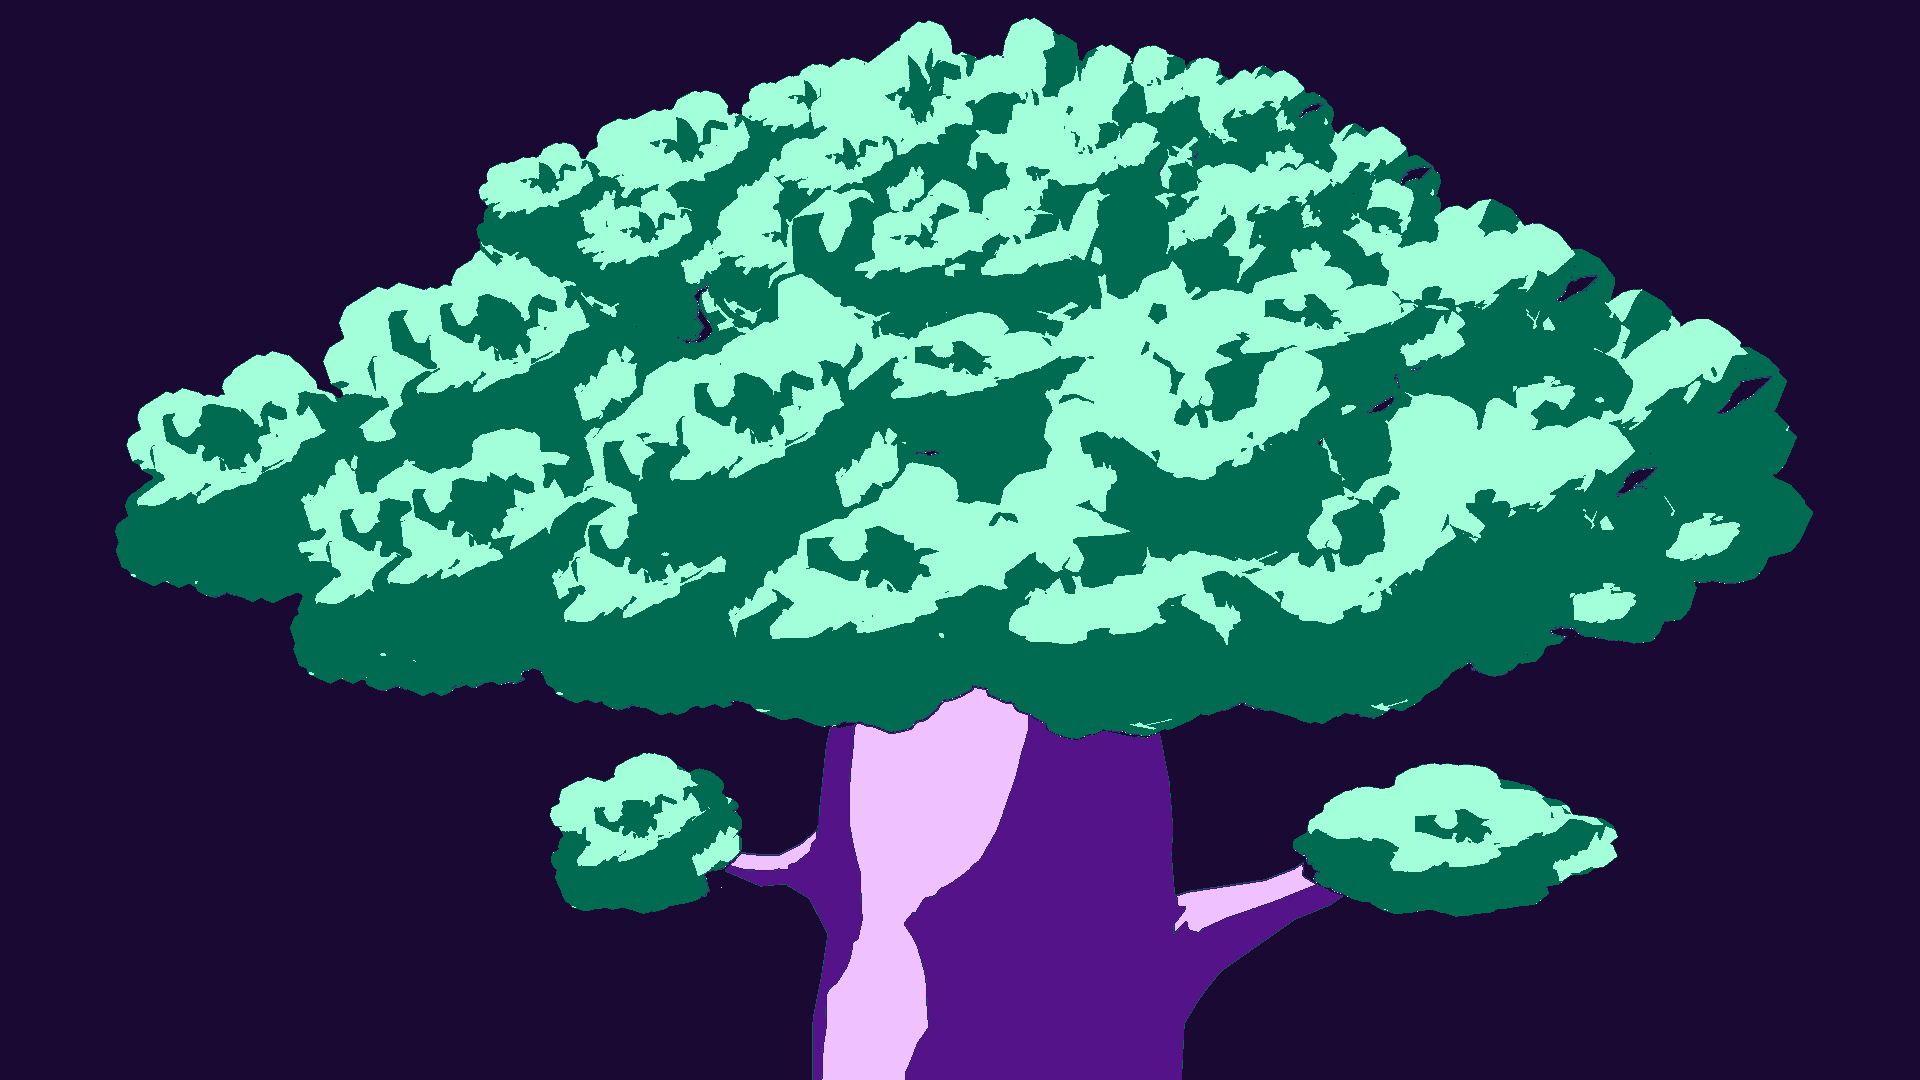
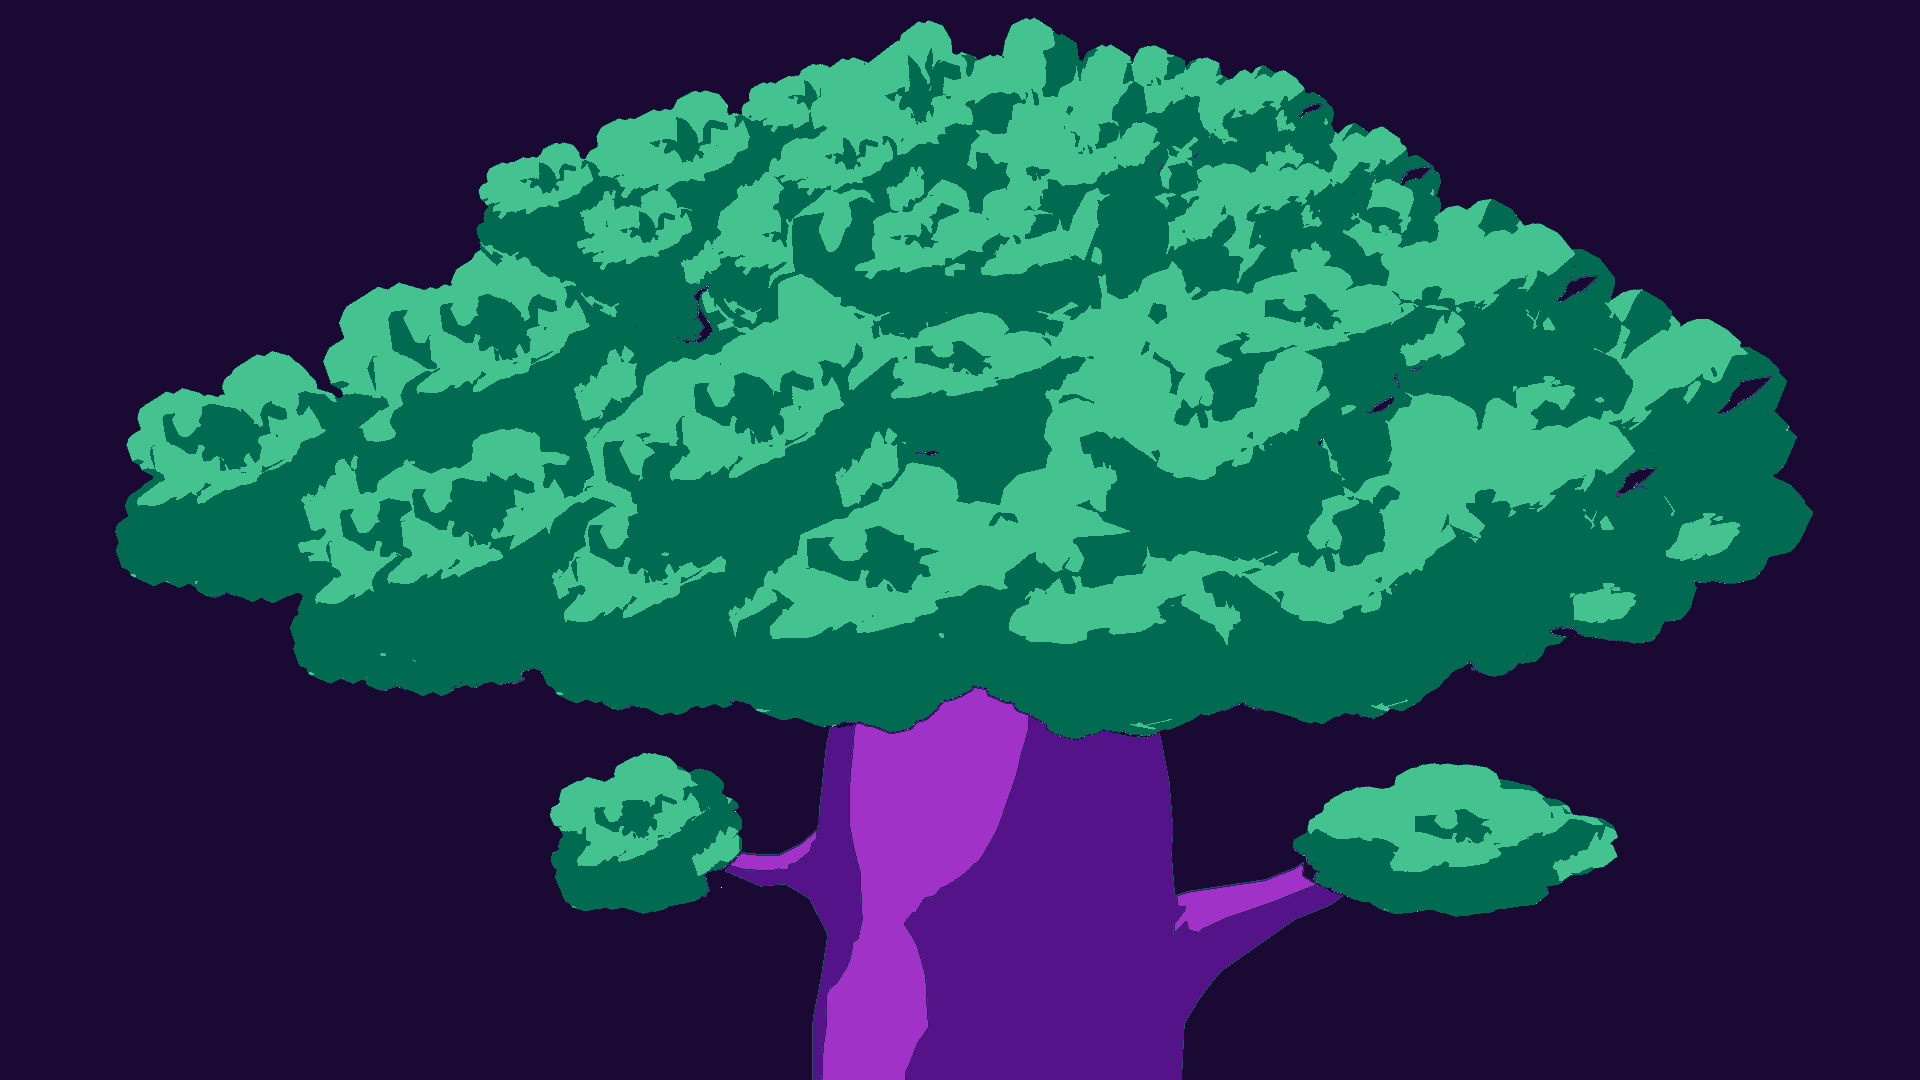
upd matin

diff --git a/assets/css/dark-style.css b/assets/css/dark-style.css
@@ -424,8 +424,8 @@ interets {
 }
 
 .grid-item {
-    background: rgba(77, 66, 105, 0.1); /* Fond transparent */
-    border: 1px solid rgba(81, 80, 92, 0.3);
+    background: rgba(175, 0, 255, 0.15);
+    border: 1px solid rgba(192, 156, 255, 0.73);
     padding: 20px;
       border-radius: 8px;
       font-weight: bold;
@@ -436,7 +436,7 @@ interets {
   }
 
   .grid-item:hover {
-    background: rgba(92, 94, 172, 0.178);
+    background: rgba(111, 172, 92, 0.178);
     border: 1px solid var(--color-accent);
   }
 
@@ -476,25 +476,25 @@ interets {
 }
 
 .cv::before {
-  content: "⎯ •⟶"; /* Flèche solide vers la gauche */
+  content: "⎯ •⟶"; 
   position: absolute;
-  left: -3em; /* Ajuste la distance à gauche */
+  left: -3em; 
   top: 50%;
   transform: translateY(-50%);
-  color: var(--color-secondary);
-  font-size: 2.5em; /* Plus grand */
+  color: white;
+  font-size: 2.5em; 
   animation: bounce-left 1.5s infinite ease-in-out;
 }
 
 /* Flèche droite */
 .cv::after {
-  content: "⟵•⎯"; /* Flèche solide vers la droite */
+  content: "⟵•⎯"; 
   position: absolute;
-  right: -3em; /* Ajuste la distance à droite */
+  right: -3em; 
   top: 50%;
   transform: translateY(-50%);
-  color: var(--color-secondary);
-  font-size: 2.5em; /* Plus grand */
+  color: white;
+  font-size: 2.5em; 
   animation: bounce-right 1.5s infinite ease-in-out;
 }
 
@@ -1035,13 +1035,14 @@ interets {
   color: lavender;
 }
 
-#portfolio h2 {
-  color: white;
-  -webkit-text-stroke: 1px var(--color-background); 
+#portfolio > h2:first-of-type, #gallery-titre{
+  text-shadow: -1px -1px 0 var(--color-accent), 1px -1px 0 var(--color-accent), -1px 1px 0 var(--color-accent), 1px 1px 0 var(--color-accent);
 }
 
-#portfolio > p:first-of-type {
-  -webkit-text-stroke: 0.5px var(--color-accent); 
+#portfolio > p:first-of-type{
+  font-size: larger;
+  text-shadow: -0.8px -0.8px 0 var(--color-accent), 0.8px -0.8px 0 var(--color-accent), -0.8px 0.8px 0 var(--color-accent), 0.8px 0.8px 0 var(--color-accent);
+  font-weight: bold;
 }
 
   /*---portfolio style---*/
@@ -1727,7 +1728,7 @@ text-align: center;
 
 #content{
   text-align: center;
-  background-image: url("../img/projet-dark.png");
+  background-image: url("../img/background-dark.png");
   background-repeat: no-repeat;
   background-size: cover;
   background-position: center;

diff --git a/index.html b/index.html
@@ -122,7 +122,7 @@
                   <li><strong>Tel:</strong> +33 7 82 41 78 66</li>
               </ul>
               <ul>
-                  <li><strong>Diplôme:</strong> BUT (+3)</li>
+                  <li><strong>Diplôme:</strong> BUT (+3) MMI + Master Game Design</li>
                   <li><strong>Mail:</strong> henryonastelie@gmail.com</li>
               </ul>
           </div>
@@ -685,7 +685,7 @@
                 </div>
               </div>
             </div>
-            
+
             <!-- Audiovisuel -->
             <div class="items__container">
               <div class="item__container" draggable="true">
@@ -1146,8 +1146,10 @@
   <div class="lightbox" id="lightbox">
       <div class="lightbox-content">
         <div class="image-grid">
-          <img src="assets/img/badges/badge1.png" alt="Image 1" class="selectable-img" />
-          <img src="assets/img/badges/badge2.png" alt="Image 2" class="selectable-img" />
+          <img src="assets/img/badges/badge1-dark.png" alt="Image 1" class="selectable-img dark-img" />
+          <img src="assets/img/badges/badge1.png" alt="Image 1" class="selectable-img light-img" />
+          <img src="assets/img/badges/badge2-dark.png" alt="Image 2" class="selectable-img dark-img" />
+          <img src="assets/img/badges/badge2.png" alt="Image 1" class="selectable-img light-img" />
           <img src="assets/img/badges/badge3.png" alt="Image 3" class="selectable-img" />
         </div>
         <p>Bravo ! Vous êtes arrivé en bas 🎉 Choisissez votre récompense !</p>

diff --git a/assets/css/style.css b/assets/css/style.css
@@ -2437,7 +2437,7 @@ section:last-of-type{
   margin: 0.2rem;
 }
 
- #portfolio > h2:first-of-type{
+#portfolio > h2:first-of-type{
   text-shadow: -1px -1px 0 var(--color-background), 1px -1px 0 var(--color-background), -1px 1px 0 var(--color-background), 1px 1px 0 var(--color-background);
 }
 
